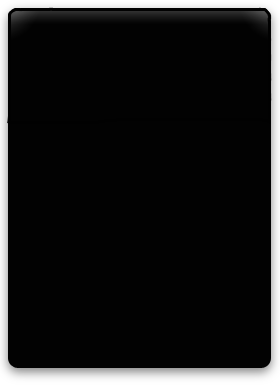
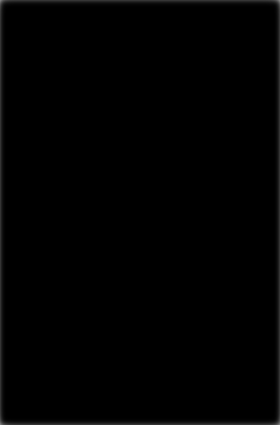
widget styles

Changed region(s): [[0.0, 0.0, 1.0, 1.0]]

diff --git a/CollegeFootball.wdgt/style.css b/CollegeFootball.wdgt/style.css
@@ -1,5 +1,3 @@
-html, body { height: 100%; overflow: hidden; }
-
 
 body {
   color: white;
@@ -8,7 +6,7 @@ body {
   margin: 0;
 }
 
-body.dashboard { min-height: 360px; }
+
 a { color: white; text-decoration: none; }
 a:hover { border-bottom: 1px dotted; }
 
@@ -19,8 +17,8 @@ a:hover { border-bottom: 1px dotted; }
 /* Front */
 .dashboard #front {
   border: 3px solid rgba(255, 255, 255, 0.1);
-
 }
+
 img { width: 75px; height: 60px; }
 ul { display: inline; auto; float: right; list-style: none; margin: 0; text-align: right; }
 ul li { display: inline; }
@@ -30,8 +28,12 @@ table { width: 100%; margin-top: 18px 0; font-size: 12px; }
 tr:last-child td { border-bottom: none; }
 td { width: 33%; border-bottom: 1px dotted; padding: 4px 0; white-space: nowrap; }
 
-#front { height: 100%; padding: 10px; background: black; }
-.dashboard #front { min-height: 360px; height: auto; }
+#front {
+  background: black;
+  padding: 10px;
+  min-height: 377px;
+  position: relative;
+}
 
 #front h1 {
   font-size: 175%;
@@ -48,15 +50,15 @@ td { width: 33%; border-bottom: 1px dotted; padding: 4px 0; white-space: nowrap;
 
 .flipper {
   position: absolute;
-  bottom: 20px;
+  bottom: 3px;
   right: 3px;
   text-align: center;
   display: inline;
-  width: 18px;
+  width: 16px;
   font-size: 14px;
   font-style: italic;
   font-weight: bold;
-  font-family: Times, "Times New Roman", serif;
+  font-family: "Baskerville", "Times New Roman",  serif;
   margin: auto;
 }
 
@@ -64,19 +66,18 @@ td { width: 33%; border-bottom: 1px dotted; padding: 4px 0; white-space: nowrap;
   border-radius: 18px;
   -moz-border-radius: 18px;
   -webkit-border-radius: 8px;
-  background-color: white;
-  opacity: 0.2;
-  color: black;
+  background-color: rgba(255, 255, 255, 0.3);
   cursor: pointer;
 }
 
+.flipper a:hover {
+  border: none;
+}
+
 /* Back */
-/* #back { display: none; background: url(images/backgroundTile.png); height: 100%; padding: 12px; font-size: 12px; } */
-#back { display: none; background: url(images/backgroundTile.png); font-size: 12px; height: 100%; padding: 12px; }
+#back { display: none; background: url(images/backgroundTile.png); font-size: 12px; padding: 12px; }
 .dashboard #back {
      border: 3px solid rgba(0, 0, 0, 0.3);
-     height: auto;
-     min-height: 360px;
 }
 #back h1 {
   font-family: Rockwell, "Helvetica Neue", Helvetica, Arial, sans-serif;
@@ -85,4 +86,19 @@ td { width: 33%; border-bottom: 1px dotted; padding: 4px 0; white-space: nowrap;
 #back a { float: right;  }
 label { display: block; margin-top: 16px; }
 select { width: 200px; }
-button { display: block; margin-top: 16px; }
+button {
+  display: block;
+  margin-top: 16px;
+  color: white;
+  font-weight: bold;
+  font-family:"Helvetica Neue", Helvetica, Arial, sans-serif;
+  font-size: 12px;
+  width: 50px;
+  height: 24px;
+  margin: 16px;
+  padding: 0;
+  border: 1px solid rgba(0,0,0,0.5);
+  border-radius: 4px 4px 4px 4px;
+  background: rgba(0,0,0,0.25);
+  box-shadow: 0 2px 6px rgba(0,0,0,0.5), inset 0 1px rgba(255,255,255,0.3), inset 0 10px rgba(255,255,255,0.2), inset 0 2px 5px rgba(255,255,255,0.25), inset 0 0px 5px rgba(0,0,0,0.3);
+}

diff --git a/CollegeFootball.wdgt/js/ui.js b/CollegeFootball.wdgt/js/ui.js
@@ -80,7 +80,8 @@ function (require, exports, $, team, flip, pref, spinner) {
     exports.load = function () {
         // Default team and conference
         var t = pref.get("team") || 2294,
-            c = pref.get("conference") || "Big Ten";
+            c = pref.get("conference") || "Big Ten",
+            flipper = $(".flipper");
 
         spinner.toggle(front);
 
@@ -91,7 +92,12 @@ function (require, exports, $, team, flip, pref, spinner) {
         });
         conferencesSelect.live("change", conferenceChange);
         $("button").live("click", doneClick).live("click", save);
-        $(".flipper").live("click", doFlip);
+        flipper.live("click", doFlip);
+        flipper.find("a").live("click", doFlip);
         back.hide();
+
+        front.bind("mouseenter", function (event) { flipper.fadeIn(); });
+        front.bind("mouseleave", function (event) { flipper.fadeOut(); });
+
     };
 });

diff --git a/CollegeFootball.wdgt/js/ui/flip.js b/CollegeFootball.wdgt/js/ui/flip.js
@@ -6,14 +6,16 @@ define(function () {
             var toSide, w = window.widget;
             if (w) {
                 toSide = front.is(":visible") ? "ToBack" : "ToFront";
-                alert("hi");
                 w.prepareForTransition(toSide);
                 if (toSide === "ToFront") {
-                    front.toggle();
-                    back.toggle();
+                    front.height(back.height());
+                    back.hide();
+                    front.show();
                 } else {
-                    back.toggle();
-                    front.toggle();
+                    // Normalize height
+                    back.height(front.height());
+                    front.hide();
+                    back.show();
                 }
                 setTimeout(function () { w.performTransition(); }, 0);
             } else {

diff --git a/CollegeFootball.wdgt/index.html b/CollegeFootball.wdgt/index.html
@@ -21,7 +21,7 @@
         <h1></h1>
       </header>
       <table></table>
-      <div class="flipper"><a href="#">i</a></div>
+      <div class="flipper" style="display:none"><a href="#">i</a></div>
     </div>
     <div id="back">
       <h1>College Football</h1>

diff --git a/CollegeFootball.wdgt/js/main.js b/CollegeFootball.wdgt/js/main.js
@@ -1,3 +1,3 @@
-require(["./ui"], function (ui) {
+require(["./ui", "./widget"], function (ui) {
     ui.load();
 });
